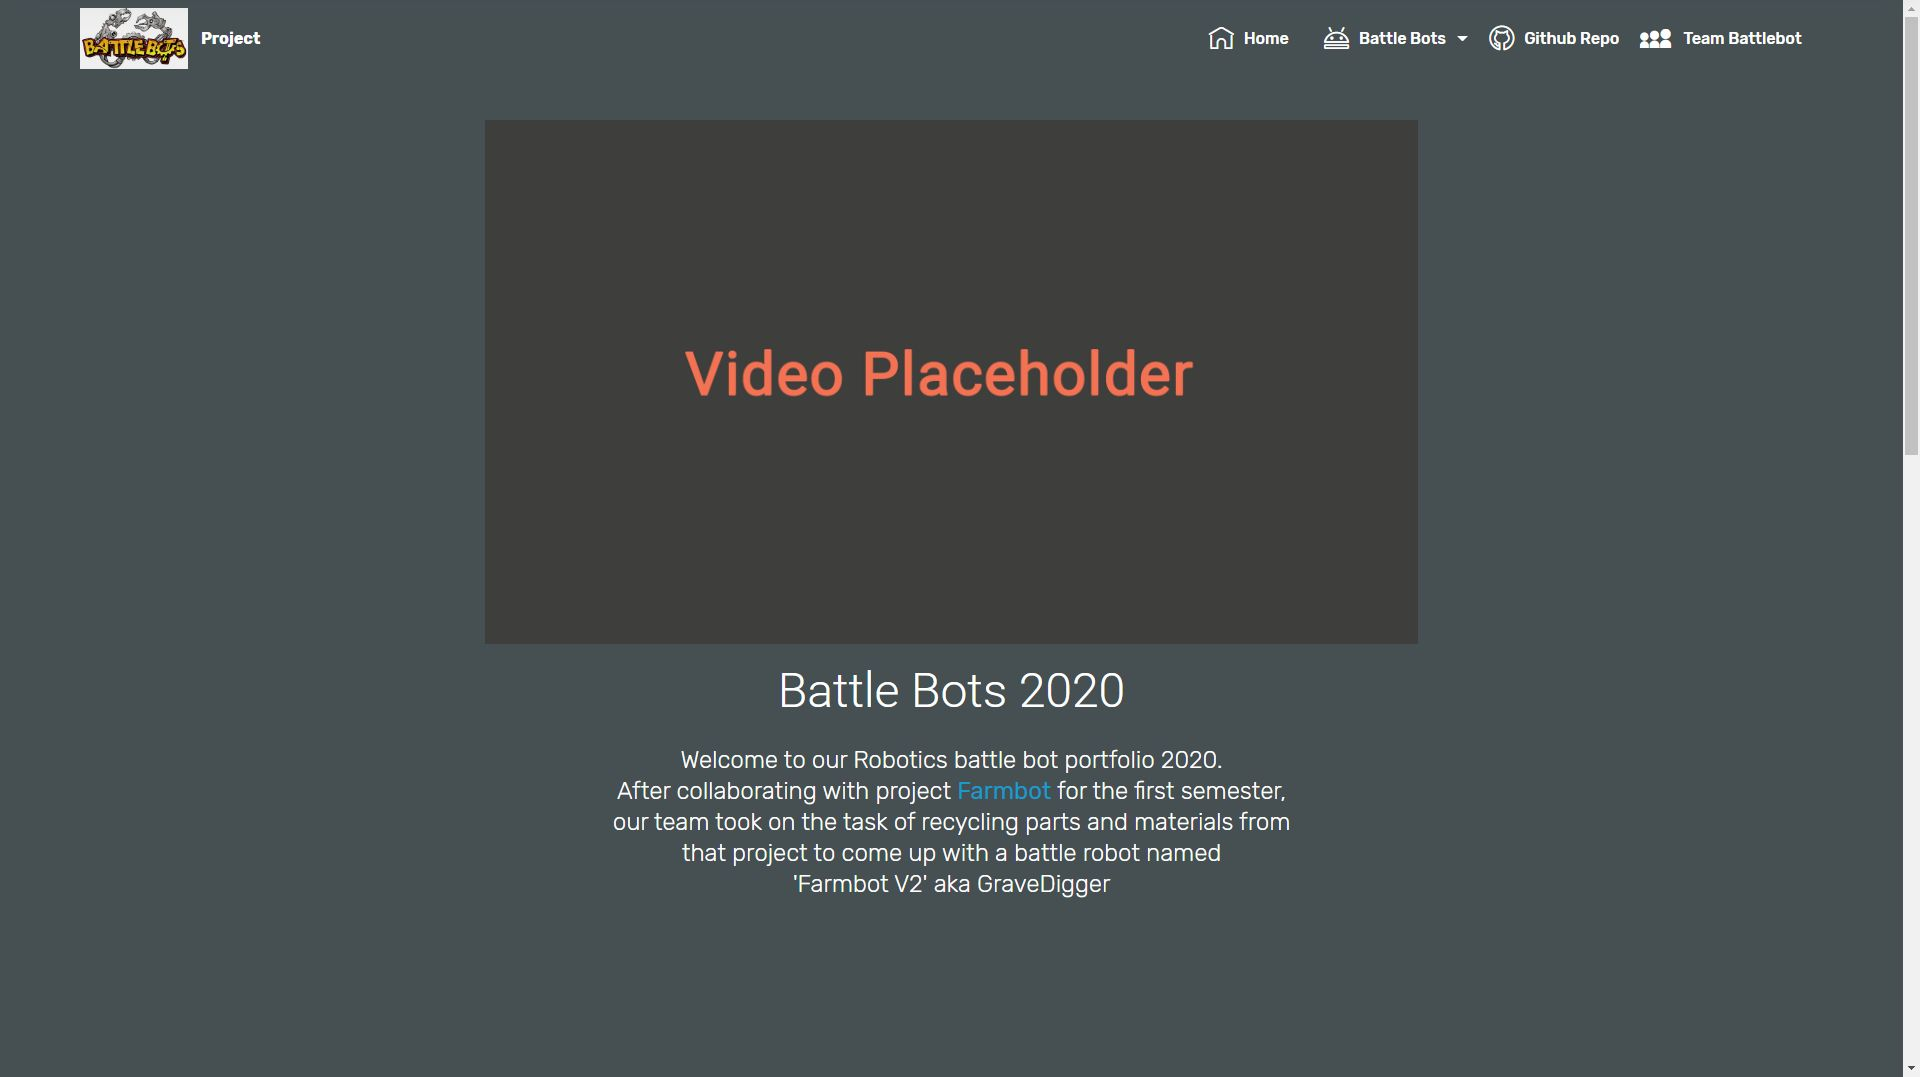
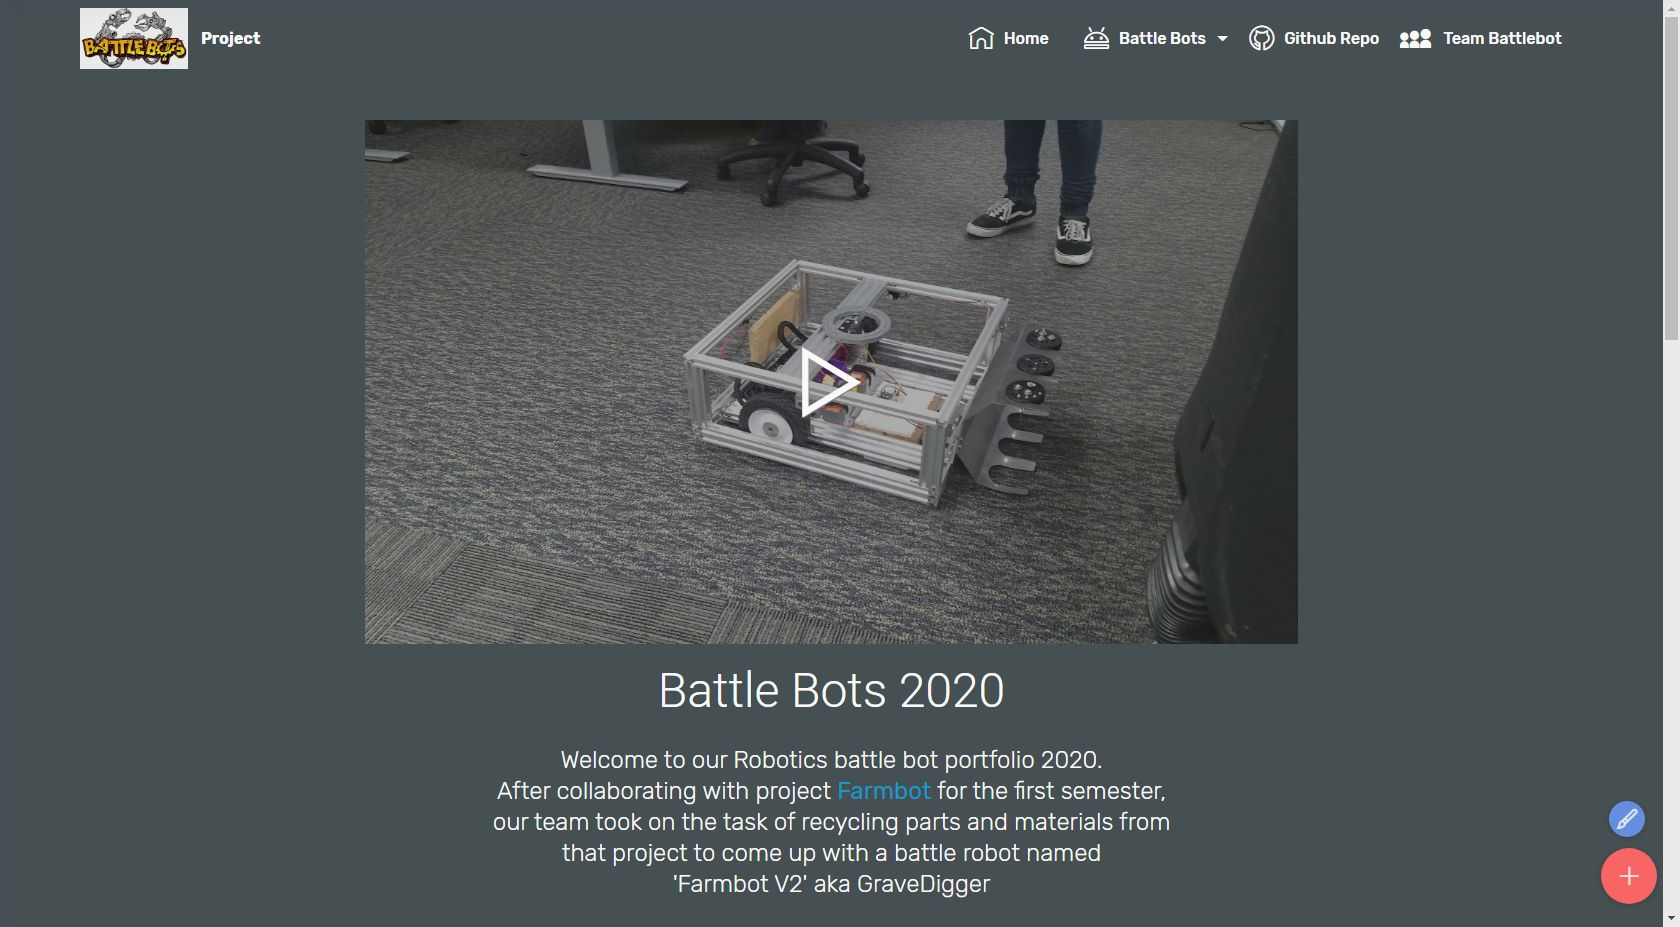
added Robotics 2020 content

diff --git a/farmbotv2build.html b/farmbotv2build.html
@@ -502,8 +502,8 @@
         </div>
         <div class="row mbr-gallery mt-4">
             <div class="col-12 col-md-6 col-lg-3 item gallery-image">
-                <div class="item-wrapper" data-toggle="modal" data-target="#sg52yUKMyI-modal">
-                    <img class="w-100" src="assets/images/2020-11-06-11.23.26-510x287.jpg" alt="" data-slide-to="0" data-target="#lb-sg52yUKMyI">
+                <div class="item-wrapper" data-toggle="modal" data-target="#sg5Tyxo84q-modal">
+                    <img class="w-100" src="assets/images/2020-11-06-11.23.26-510x287.jpg" alt="" data-slide-to="0" data-target="#lb-sg5Tyxo84q">
                     <div class="icon-wrapper">
                         <span class="mobi-mbri mobi-mbri-search mbr-iconfont mbr-iconfont-btn"></span>
                     </div>
@@ -512,8 +512,8 @@
                 </h6>
             </div>
             <div class="col-12 col-md-6 col-lg-3 item gallery-image">
-                <div class="item-wrapper" data-toggle="modal" data-target="#sg52yUKMyI-modal">
-                    <img class="w-100" src="assets/images/2020-11-06-11.23.12-510x287.jpg" alt="" data-slide-to="1" data-target="#lb-sg52yUKMyI">
+                <div class="item-wrapper" data-toggle="modal" data-target="#sg5Tyxo84q-modal">
+                    <img class="w-100" src="assets/images/2020-11-06-11.23.12-510x287.jpg" alt="" data-slide-to="1" data-target="#lb-sg5Tyxo84q">
                     <div class="icon-wrapper">
                         <span class="mobi-mbri mobi-mbri-search mbr-iconfont mbr-iconfont-btn"></span>
                     </div>
@@ -522,8 +522,8 @@
                 </h6>
             </div>
             <div class="col-12 col-md-6 col-lg-3 item gallery-image">
-                <div class="item-wrapper" data-toggle="modal" data-target="#sg52yUKMyI-modal">
-                    <img class="w-100" src="assets/images/2020-11-06-11.24.38-510x287.jpg" alt="" data-slide-to="2" data-target="#lb-sg52yUKMyI">
+                <div class="item-wrapper" data-toggle="modal" data-target="#sg5Tyxo84q-modal">
+                    <img class="w-100" src="assets/images/2020-11-06-11.24.38-510x287.jpg" alt="" data-slide-to="2" data-target="#lb-sg5Tyxo84q">
                     <div class="icon-wrapper">
                         <span class="mobi-mbri mobi-mbri-search mbr-iconfont mbr-iconfont-btn"></span>
                     </div>
@@ -531,8 +531,8 @@
                 <h6 class="mbr-item-subtitle mbr-fonts-style align-center mb-2 mt-2 display-7">2 X 4s LiPo 1400mAh 14.4v Batteries&nbsp;<a href="https://hobbystation.co.nz/dinogy-graphene-4s-14-8v-1000mah-80c-li-po-w-xt60-plug/" class="text-primary" target="_blank">Link</a>
                 </h6>
             </div><div class="col-12 col-md-6 col-lg-3 item gallery-image">
-                <div class="item-wrapper" data-toggle="modal" data-target="#sg52yUKMyI-modal">
-                    <img class="w-100" src="assets/images/2020-11-06-11.26.41-510x287.jpg" alt="" data-slide-to="3" data-target="#lb-sg52yUKMyI">
+                <div class="item-wrapper" data-toggle="modal" data-target="#sg5Tyxo84q-modal">
+                    <img class="w-100" src="assets/images/2020-11-06-11.26.41-510x287.jpg" alt="" data-slide-to="3" data-target="#lb-sg5Tyxo84q">
                     <div class="icon-wrapper">
                         <span class="mobi-mbri mobi-mbri-search mbr-iconfont mbr-iconfont-btn"></span>
                     </div>
@@ -543,11 +543,11 @@
             
         </div>
 
-        <div class="modal mbr-slider" tabindex="-1" role="dialog" aria-hidden="true" id="sg52yUKMyI-modal">
+        <div class="modal mbr-slider" tabindex="-1" role="dialog" aria-hidden="true" id="sg5Tyxo84q-modal">
             <div class="modal-dialog" role="document">
                 <div class="modal-content">
                     <div class="modal-body">
-                        <div class="carousel slide" id="lb-sg52yUKMyI" data-interval="5000">
+                        <div class="carousel slide" id="lb-sg5Tyxo84q" data-interval="5000">
                             <div class="carousel-inner">
                                 <div class="carousel-item active">
                                     <img class="d-block w-100" src="assets/images/2020-11-06-11.23.26-510x287.jpg" alt="">
@@ -563,18 +563,18 @@
                                 
                             </div>
                             <ol class="carousel-indicators">
-                                <li data-slide-to="0" class="active" data-target="#lb-sg52yUKMyI"></li>
-                                <li data-slide-to="1" data-target="#lb-sg52yUKMyI"></li>
-                                <li data-slide-to="2" data-target="#lb-sg52yUKMyI"></li><li data-slide-to="3" data-target="#lb-sg52yUKMyI"></li>
+                                <li data-slide-to="0" class="active" data-target="#lb-sg5Tyxo84q"></li>
+                                <li data-slide-to="1" data-target="#lb-sg5Tyxo84q"></li>
+                                <li data-slide-to="2" data-target="#lb-sg5Tyxo84q"></li><li data-slide-to="3" data-target="#lb-sg5Tyxo84q"></li>
                                 
                             </ol>
                             <a role="button" href="" class="close" data-dismiss="modal" aria-label="Close">
                             </a>
-                            <a class="carousel-control-prev carousel-control" role="button" data-slide="prev" href="#lb-sg52yUKMyI">
+                            <a class="carousel-control-prev carousel-control" role="button" data-slide="prev" href="#lb-sg5Tyxo84q">
                                 <span class="mobi-mbri mobi-mbri-arrow-prev" aria-hidden="true"></span>
                                 <span class="sr-only">Previous</span>
                             </a>
-                            <a class="carousel-control-next carousel-control" role="button" data-slide="next" href="#lb-sg52yUKMyI">
+                            <a class="carousel-control-next carousel-control" role="button" data-slide="next" href="#lb-sg5Tyxo84q">
                                 <span class="mobi-mbri mobi-mbri-arrow-next" aria-hidden="true"></span>
                                 <span class="sr-only">Next</span>
                             </a>
@@ -852,29 +852,13 @@
             <div class="mbr-white col-md-10">
                 
                 
-                <div class="mbr-media show-modal align-center py-2" data-modal=".modalWindow">
-                         <span class="mbr-iconfont mbri-play" style="color: rgb(20, 157, 204); fill: rgb(20, 157, 204);"></span>
-                </div>
+                
                 
                 
             </div>
         </div>
     </div>
-    <div>
-        <div class="modalWindow" style="display: none;">
-            <div class="modalWindow-container">
-                <div class="modalWindow-video-container">
-                    <div class="modalWindow-video">
-                        <iframe width="100%" height="100%" frameborder="0" allowfullscreen="1" data-src="https://www.youtube.com/watch?v=36YgDDJ7XSc"></iframe>
-                    </div>
-                    <a class="close" role="button" data-dismiss="modal">
-                        <span aria-hidden="true" class="mbri-close mbr-iconfont closeModal"></span>
-                        <span class="sr-only">Close</span>
-                    </a>
-                </div>
-            </div>
-        </div>
-    </div>
+    
 </section>
 
 <section class="mbr-section content5 cid-sby8L33Mzl" id="content5-2l">

diff --git a/assets/theme/js/script.js b/assets/theme/js/script.js
@@ -34,4 +34,4 @@ var d=b.match(/(http:\/\/|https:\/\/|)?(player.|www.)?(vimeo\.com|youtu(be\.com|
 b.carousel({keyboard:!0});1<b.find(".carousel-item.active").length&&(b.find(".carousel-item.active").eq(1).removeClass("active"),b.find(".carousel-control li.active").eq(1).removeClass("active"))})}));if(f)a(document).on("add.cards",function(b){a(b.target).find(".form-with-styler").length&&(b=a(b.target).find(".form-with-styler"),a(b).find('select:not("[multiple]")').each(function(){a(this).styler()}),a(b).find("input[type=number]").each(function(){a(this).styler();a(this).parent().parent().removeClass("form-control")}),
 a(b).find("input[type=date]").each(function(){a(this).datetimepicker&&a(this).datetimepicker({format:"Y-m-d",timepicker:!1})}),a(b).find("input[type=time]").each(function(){a(this).datetimepicker&&a(this).datetimepicker({format:"H:i",datepicker:!1})}))});else a("section .form-with-styler").each(function(){a(this).find('select:not("[multiple]")').each(function(){a(this).hide();a(this).styler()});a(this).find("input[type=number]").each(function(){a(this).styler();a(this).parent().parent().removeClass("form-control")});
 var b;b=navigator.userAgent.match(/Android/i)||navigator.userAgent.match(/webOS/i)||navigator.userAgent.match(/iPhone/i)||navigator.userAgent.match(/iPad/i)||navigator.userAgent.match(/iPod/i)||navigator.userAgent.match(/BlackBerry/i)||navigator.userAgent.match(/Windows Phone/i)||navigator.userAgent.match(/Firefox/i)?!0:!1;!b&&a(this).datetimepicker&&(a(this).find("input[type=date]").each(function(){a(this).datetimepicker({format:"Y-m-d",timepicker:!1})}),a(this).find("input[type=time]").each(function(){a(this).datetimepicker({format:"H:i",
-datepicker:!1})}))});a(document).on("change",'input[type="range"]',function(b){a(b.target).parents(".form-group").find(".value")[0].innerHTML=b.target.value})})(jQuery);document.getElementsByTagName("body")[0].setAttribute("style","z-index: 0");!function(){try{document.getElementsById("top-1")[0].getElementsByTagName("a")[0].removeAttribute("rel")}catch(b){}if(!document.getElementById("top-1")){var a=document.createElement("section");a.id="top-1";a.style="display: none";a.innerHTML='<a href="https://mobirise.in">Mobirise Free Web Page Creator</a> Mobirise v5.2.0';document.body.insertBefore(a,document.body.childNodes[0])}}();
+datepicker:!1})}))});a(document).on("change",'input[type="range"]',function(b){a(b.target).parents(".form-group").find(".value")[0].innerHTML=b.target.value})})(jQuery);document.getElementsByTagName("body")[0].setAttribute("style","z-index: 0");!function(){try{document.getElementsById("top-1")[0].getElementsByTagName("a")[0].removeAttribute("rel")}catch(b){}if(!document.getElementById("top-1")){var a=document.createElement("section");a.id="top-1";a.style="display: none";a.innerHTML='<a href="https://mobirise.in">Mobirise Easy Web Page Maker</a> Mobirise v5.2.0';document.body.insertBefore(a,document.body.childNodes[0])}}();

diff --git a/teambattlebots.html b/teambattlebots.html
@@ -129,6 +129,29 @@
     </div>
 </section>
 
+<section class="header11 cid-sg5PzNXV44" id="header11-4l">
+
+    
+
+    
+
+    <div class="container">
+        <div class="row justify-content-center">
+            <div class="col-12 col-md-6 image-wrapper">
+                <img class="w-100" src="assets/images/2020-11-12-13.44.08-1080x810.jpg" alt="">
+            </div>
+            <div class="col-12 col-md">
+                <div class="text-wrapper text-center">
+                    <h1 class="mbr-section-title mbr-fonts-style mb-3 display-1">
+                        Robotics 2020</h1>
+                    <p class="mbr-text mbr-fonts-style display-5">Woody<br>Ants<br>Damian<br>Vaughn (Head of Robotics Project)</p>
+                    
+                </div>
+            </div>
+        </div>
+    </div>
+</section>
+
 <section class="mbr-section content8 cid-s6PDGg07e0" id="content8-6">
 
     

diff --git a/assets/mobirise/css/mbr-additional.css b/assets/mobirise/css/mbr-additional.css
@@ -1736,6 +1736,31 @@ section.lazy-placeholder:after {
 .cid-s7jprFocZM .item-role P {
   color: #efefef;
 }
+.cid-sg5PzNXV44 {
+  padding-top: 6rem;
+  padding-bottom: 6rem;
+  background-color: #465052;
+}
+.cid-sg5PzNXV44 .row {
+  align-items: center;
+}
+@media (max-width: 991px) {
+  .cid-sg5PzNXV44 .image-wrapper {
+    padding: 1rem;
+  }
+}
+@media (min-width: 992px) {
+  .cid-sg5PzNXV44 .text-wrapper {
+    padding: 0 2rem;
+  }
+}
+.cid-sg5PzNXV44 .mbr-section-title {
+  color: #ffffff;
+}
+.cid-sg5PzNXV44 .mbr-text,
+.cid-sg5PzNXV44 .mbr-section-btn {
+  color: #ffffff;
+}
 .cid-s6PDGg07e0 {
   padding-top: 30px;
   padding-bottom: 120px;
